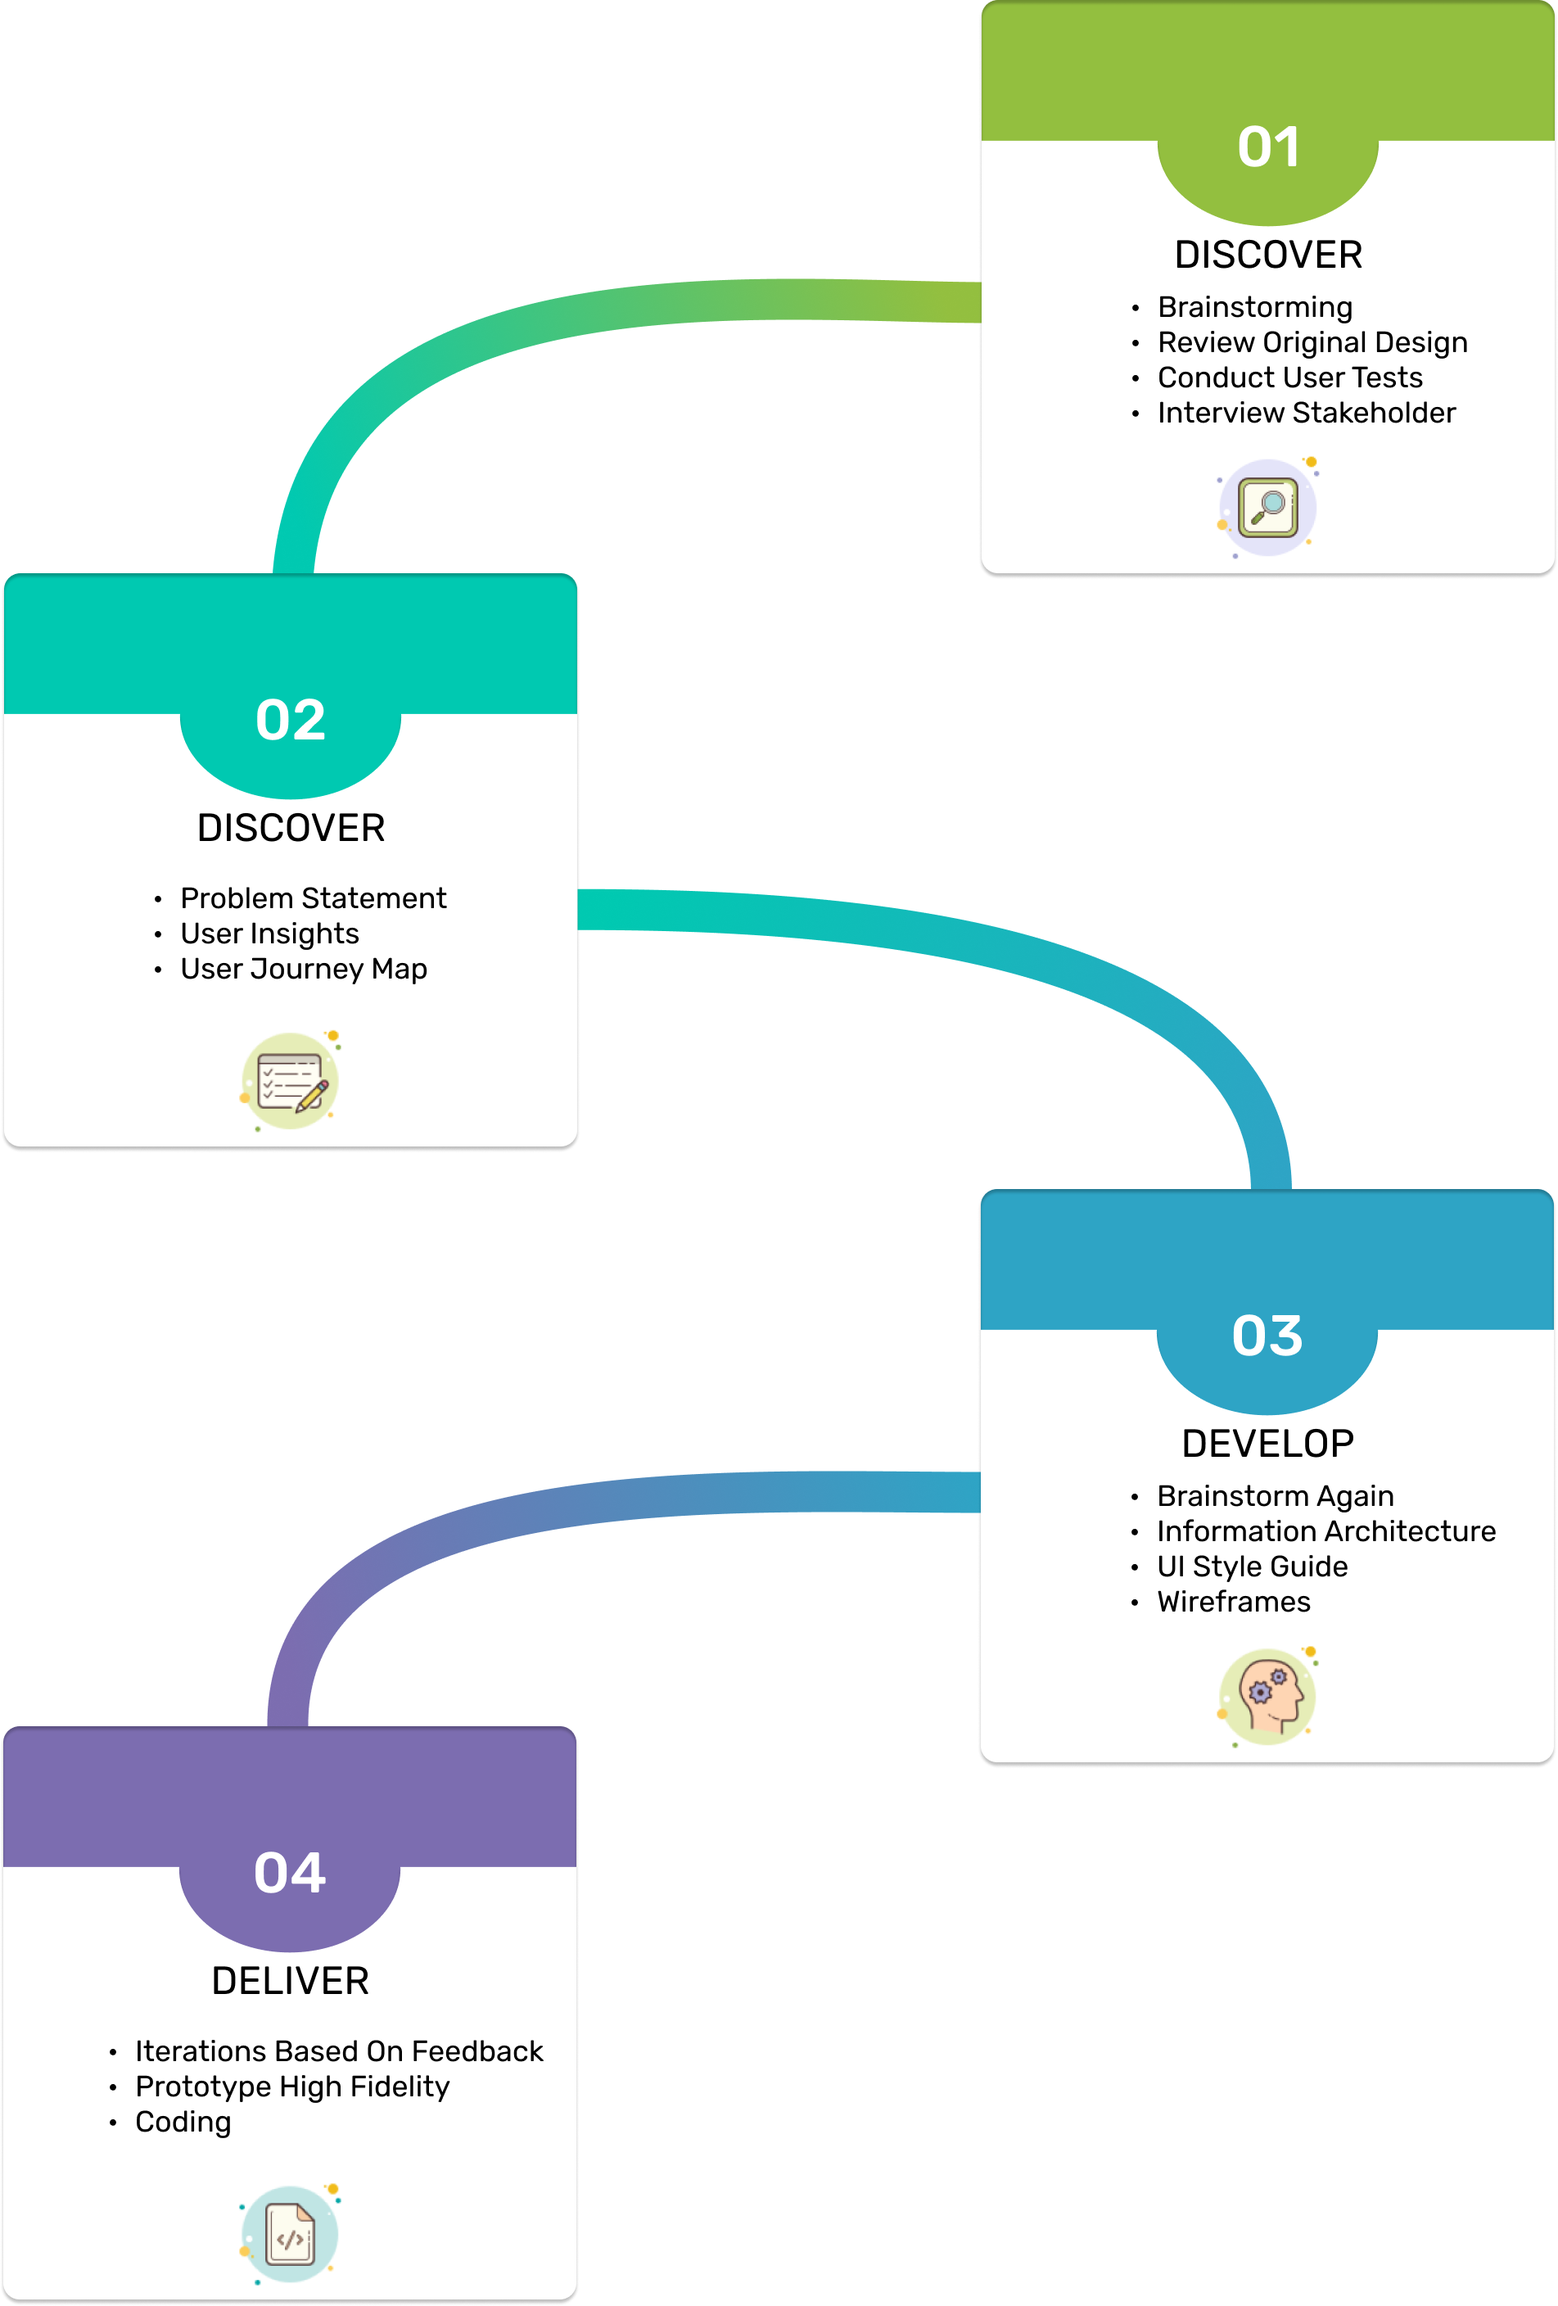
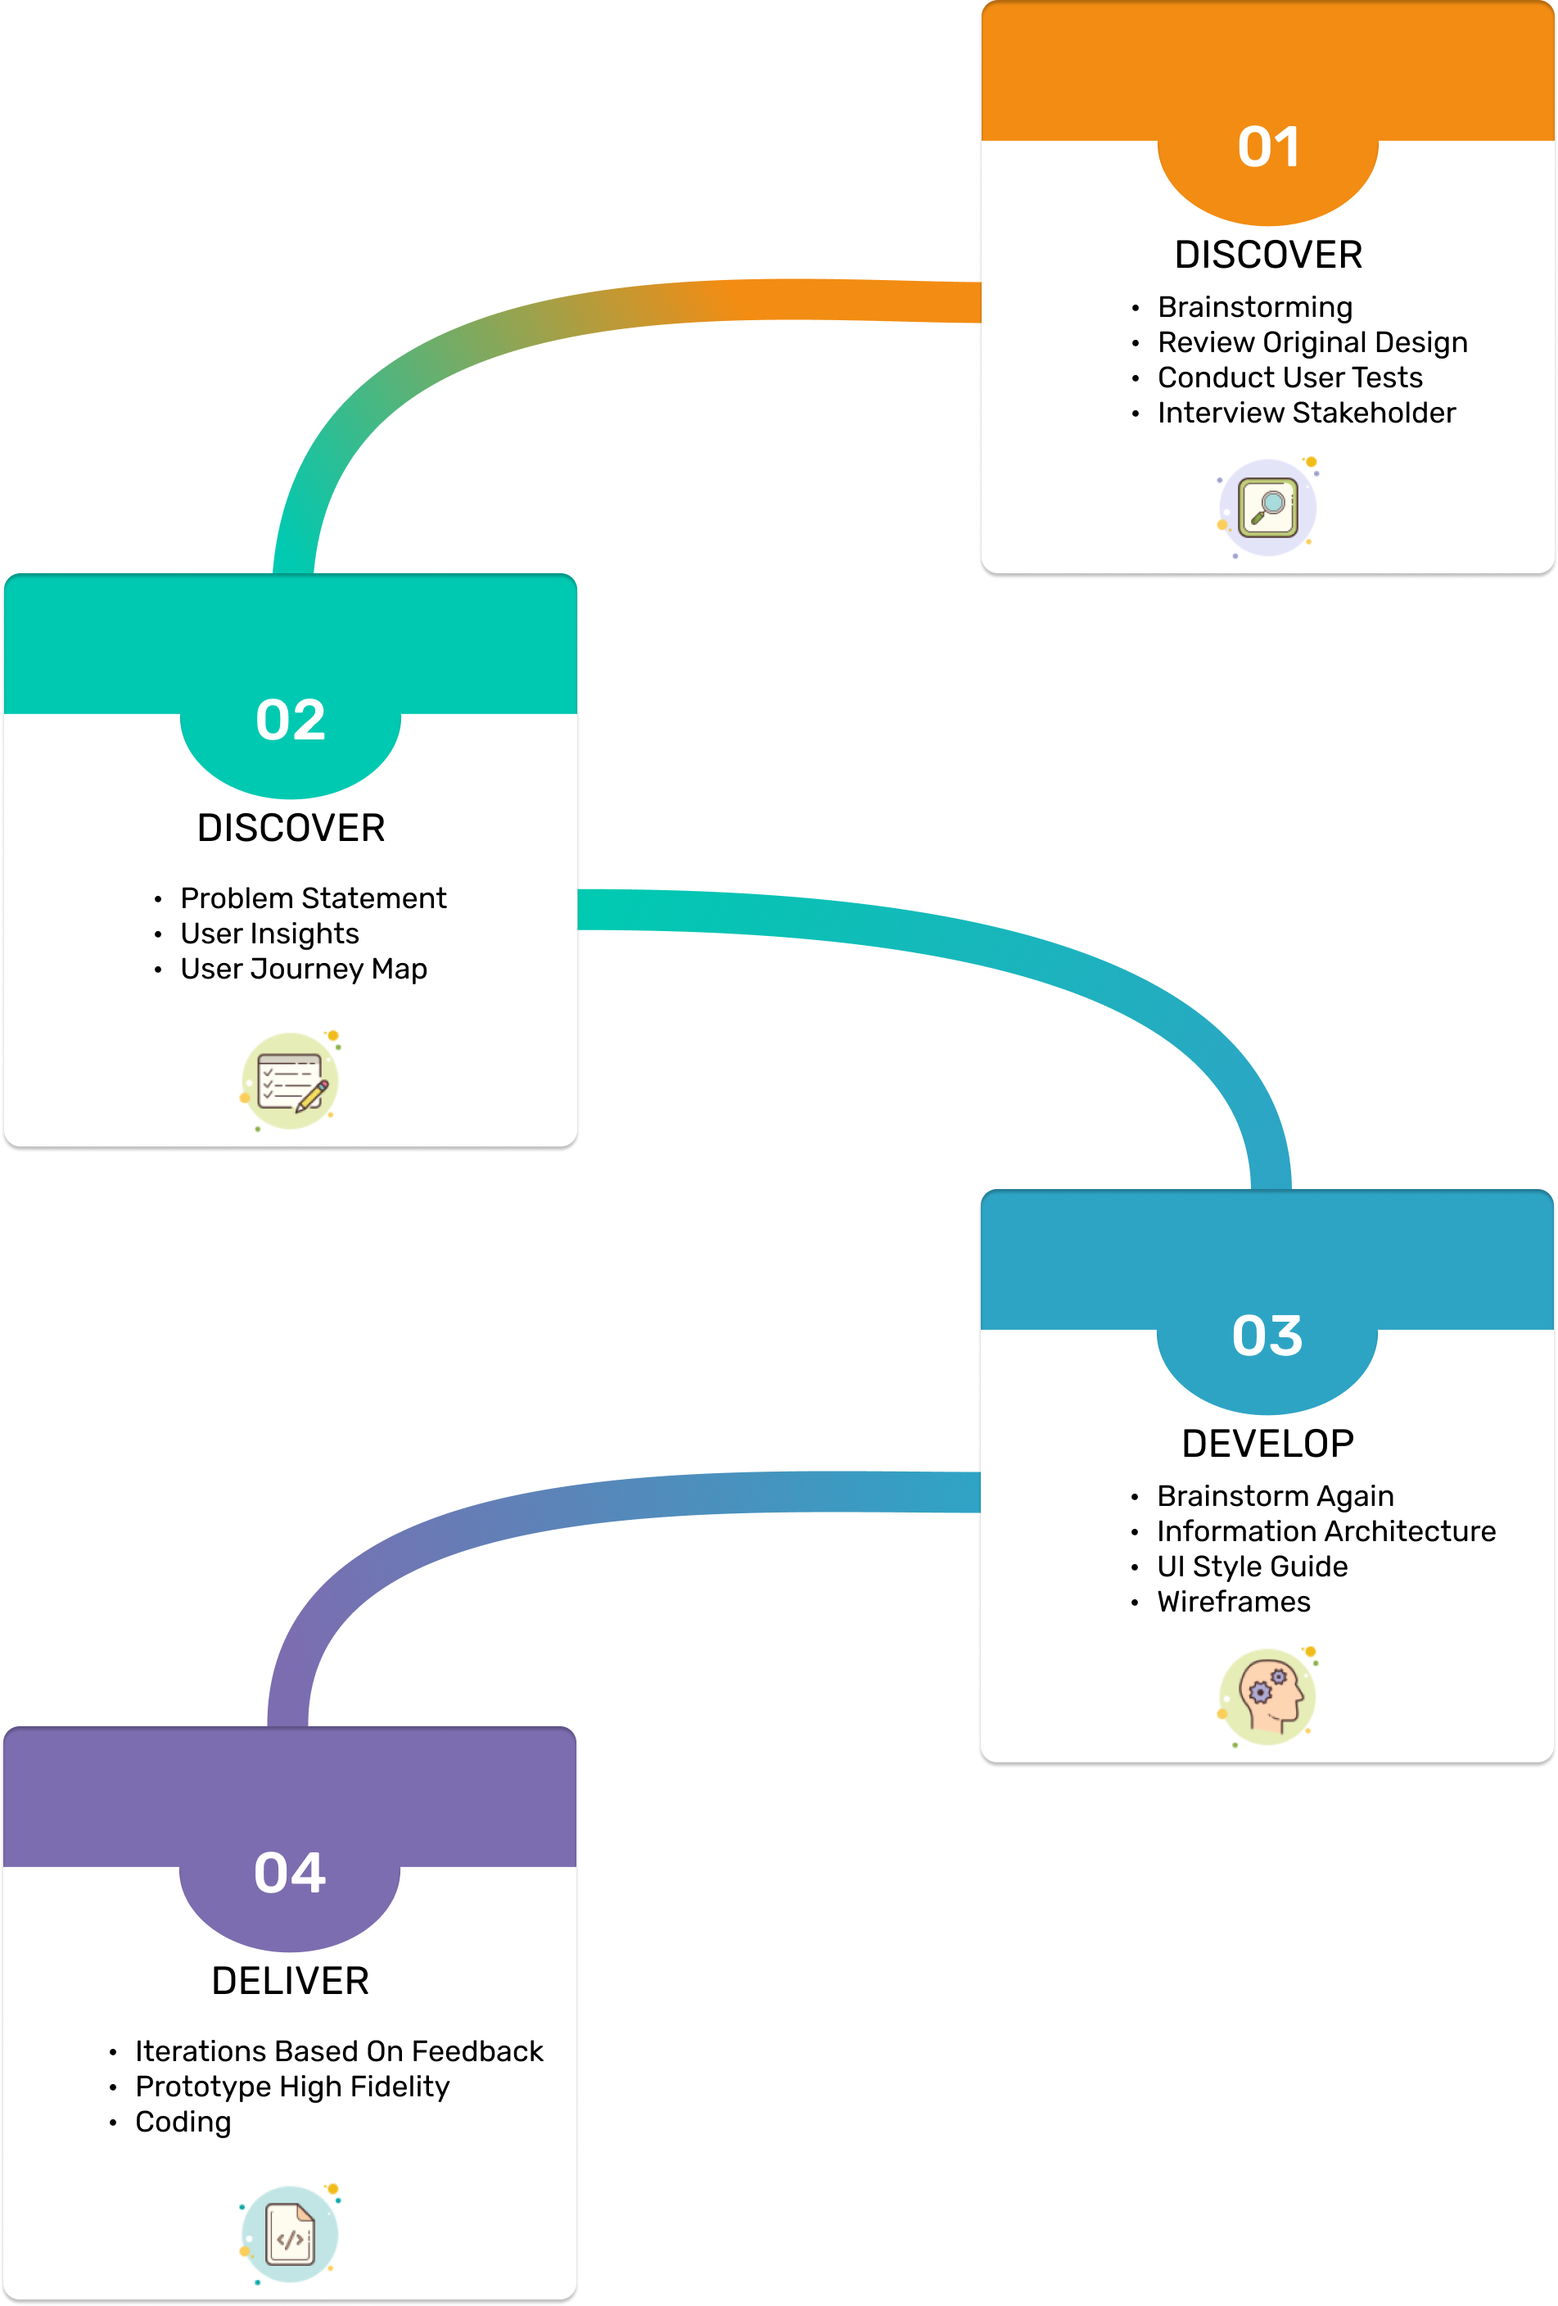
7.21

Changed region(s): [[0.6201, 0.0, 1.0, 0.125], [0.186, 0.0938, 0.6511, 0.2188]]

diff --git a/Project1.html b/Project1.html
@@ -146,17 +146,21 @@
 
     </div>
 
+    <div class="userTest">
+
     <h2 class="subtitle">· User Survey & Test </h2>
 
-    <div class="survey_img">
+      <div class="survey_img">
 
-      <img src="img/project1/Survey.png" alt="survery_picture">
+        <img src="img/project1/Survey.png" alt="survery_picture">
 
-    </div>
+      </div>
 
       <p class="text">Then, we conducted several user tests and a user survey, from which we received 38 responses. <br><br>
-        Overall the results played a big role in prioritizing the features and functionality that later we added to our design.</p>  
+        Overall the results played a big role in prioritizing the features and functionality that later we added to our design.
+      </p>  
 
+    </div>
   </section>
 
   <section id="define">
@@ -167,8 +171,6 @@
 
         <h1 class="title">Define Phase</h1>
 
-
-
           <h2 class="subtitle">· User Insight </h2>
 
           <div class="insight_img">
@@ -177,8 +179,19 @@
   
           </div>
 
-          <p class="text">During our user research we discovered that most patients feel the information is lacking from their doctors website, they find the process of booking an appointment is inconvenient and would like to have access to their medical information via a secure portal. </p>  
+          <p class="text">During our user research, we discovered that most patients feel the information is lacking from their doctors' websites, they find the process of booking an appointment is inconvenient and would like to have access to their medical information via a secure portal. </p>  
           
+          <h2 class="subtitle">· Problem Statement</h2>
+
+          <div class="question_img">
+
+            <img src="img/project1/Q.png" alt="question_pic">
+  
+          </div>
+
+          <p class="text">How might we improve the website so that our patients will have a better user experience when contacting the family health team to either schedule an appointment, view their health records or access important health and wellness information?</p> 
+
+
       </div>
         
       </div>

diff --git a/css/project1.css b/css/project1.css
@@ -334,7 +334,7 @@ img {
 }
 
 #designProcess .phase1{
-	color:#93BF3F;
+	color:#F28C13;
 	font-weight: 500;
 }
 
@@ -390,7 +390,7 @@ img {
 #discover .subtitle{
 	margin:20px 0;
 	text-align: left;
-	color:#93BF3F;
+	color:#F28C13;
 }
 
 #discover .survey_img{
@@ -426,7 +426,7 @@ img {
 #define .subtitle{
 	margin:20px 0;
 	text-align: left;
-	color:#93BF3F;
+	color:#00C9B1;
 }
 
 
@@ -436,7 +436,11 @@ img {
 #define .text{
 	padding: 0 10px;
 }
-
+#define .question_img{
+	position: relative;
+	left: 20%;
+	width: 50%;
+}
 
 @media only screen and (min-width: 768px) {
 	.subtitle{
@@ -502,9 +506,16 @@ img {
 		margin-bottom: 40px;
 	}
 
-
 	#define .insight_img{
-		margin:60px;
+		position: relative;
+		left: 20%;
+		width: 50%;
+	}
+
+	#define .question_img{
+		position: relative;
+		left: 33%;
+		width: 30%;
 	}
 	/*End  discover */
 
@@ -558,8 +569,6 @@ img {
 	#coverPage .col-right{
 		padding-right: 40px;
 	}
-
-
 	/* End cover */
 
 	/* brief */
@@ -617,8 +626,6 @@ img {
 		margin-top: 40px;
 		line-height: 4rem;
 	}
-
-
 	/* End Design Process */
 
 	/* Discover */
@@ -633,16 +640,19 @@ img {
 	}
 
 	#discover .discover .col-right{
-		width: 40%;
-		
+		width: 40%;	
 	}
 
 	#discover .discover .title{
 		text-align: start;
-		font-size: 5.5rem;
-		position: absolute;
-		top: -50px;
-		margin: 0;
+	}
+
+	#discover .explan{
+		margin-top: 78px;
+	}
+
+	#discover .userTest{
+		margin:0 50px;
 	}
 
 	#discover .discover .text{
@@ -651,9 +661,10 @@ img {
 	}
 	/* End Discover */
 
-	#define .insight_img{
-		position: relative;
-		left: 20%;
-		width: 50%;
+	#define .define{
+		margin: 0 50px;
 	}
+
+
+
 }
